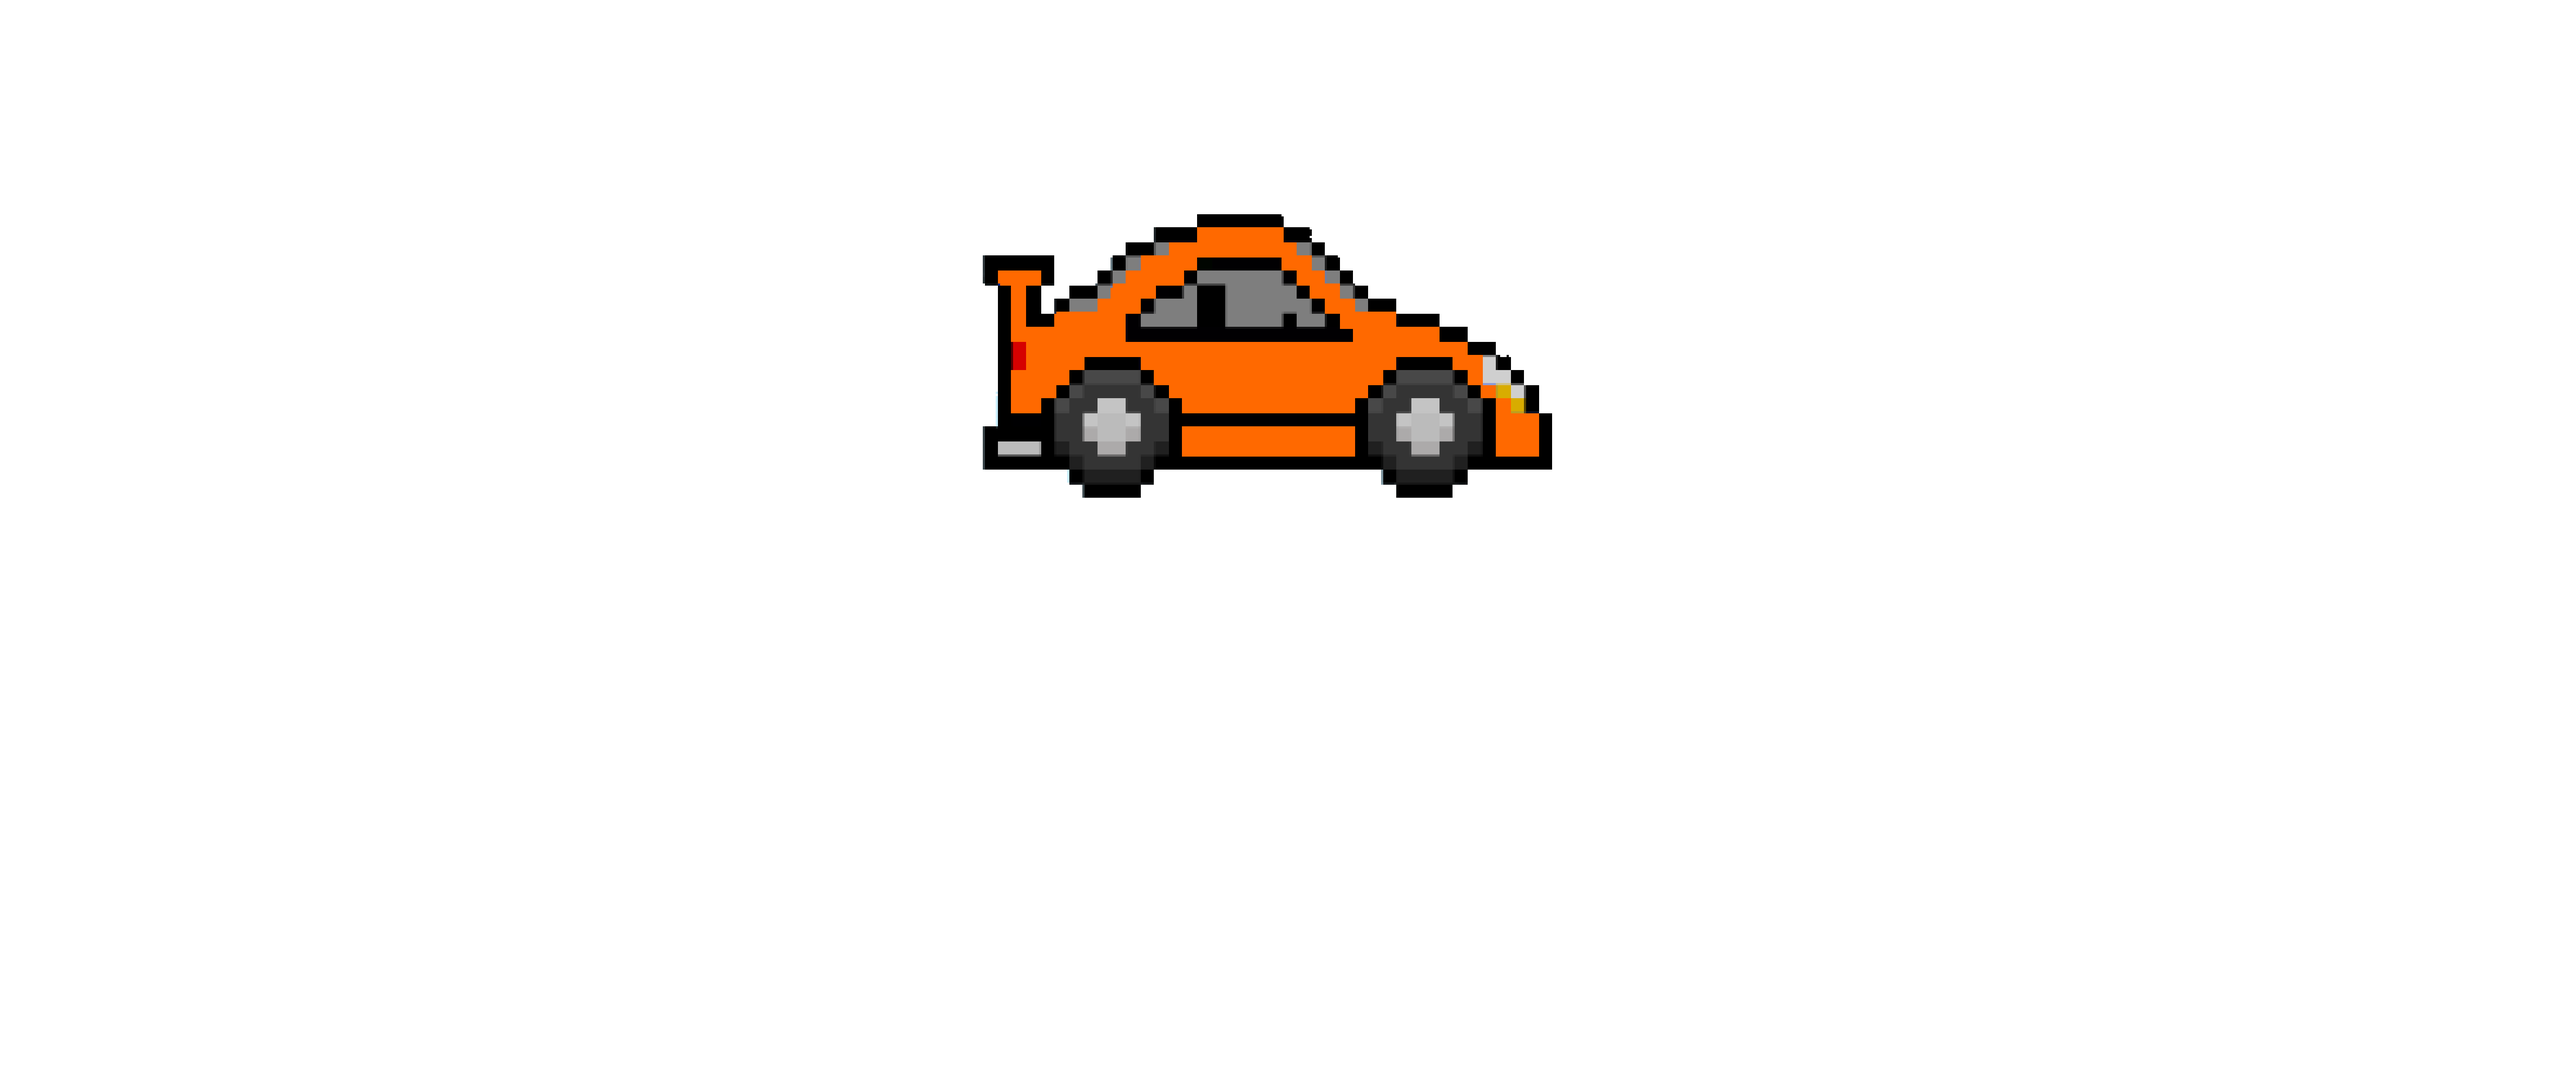
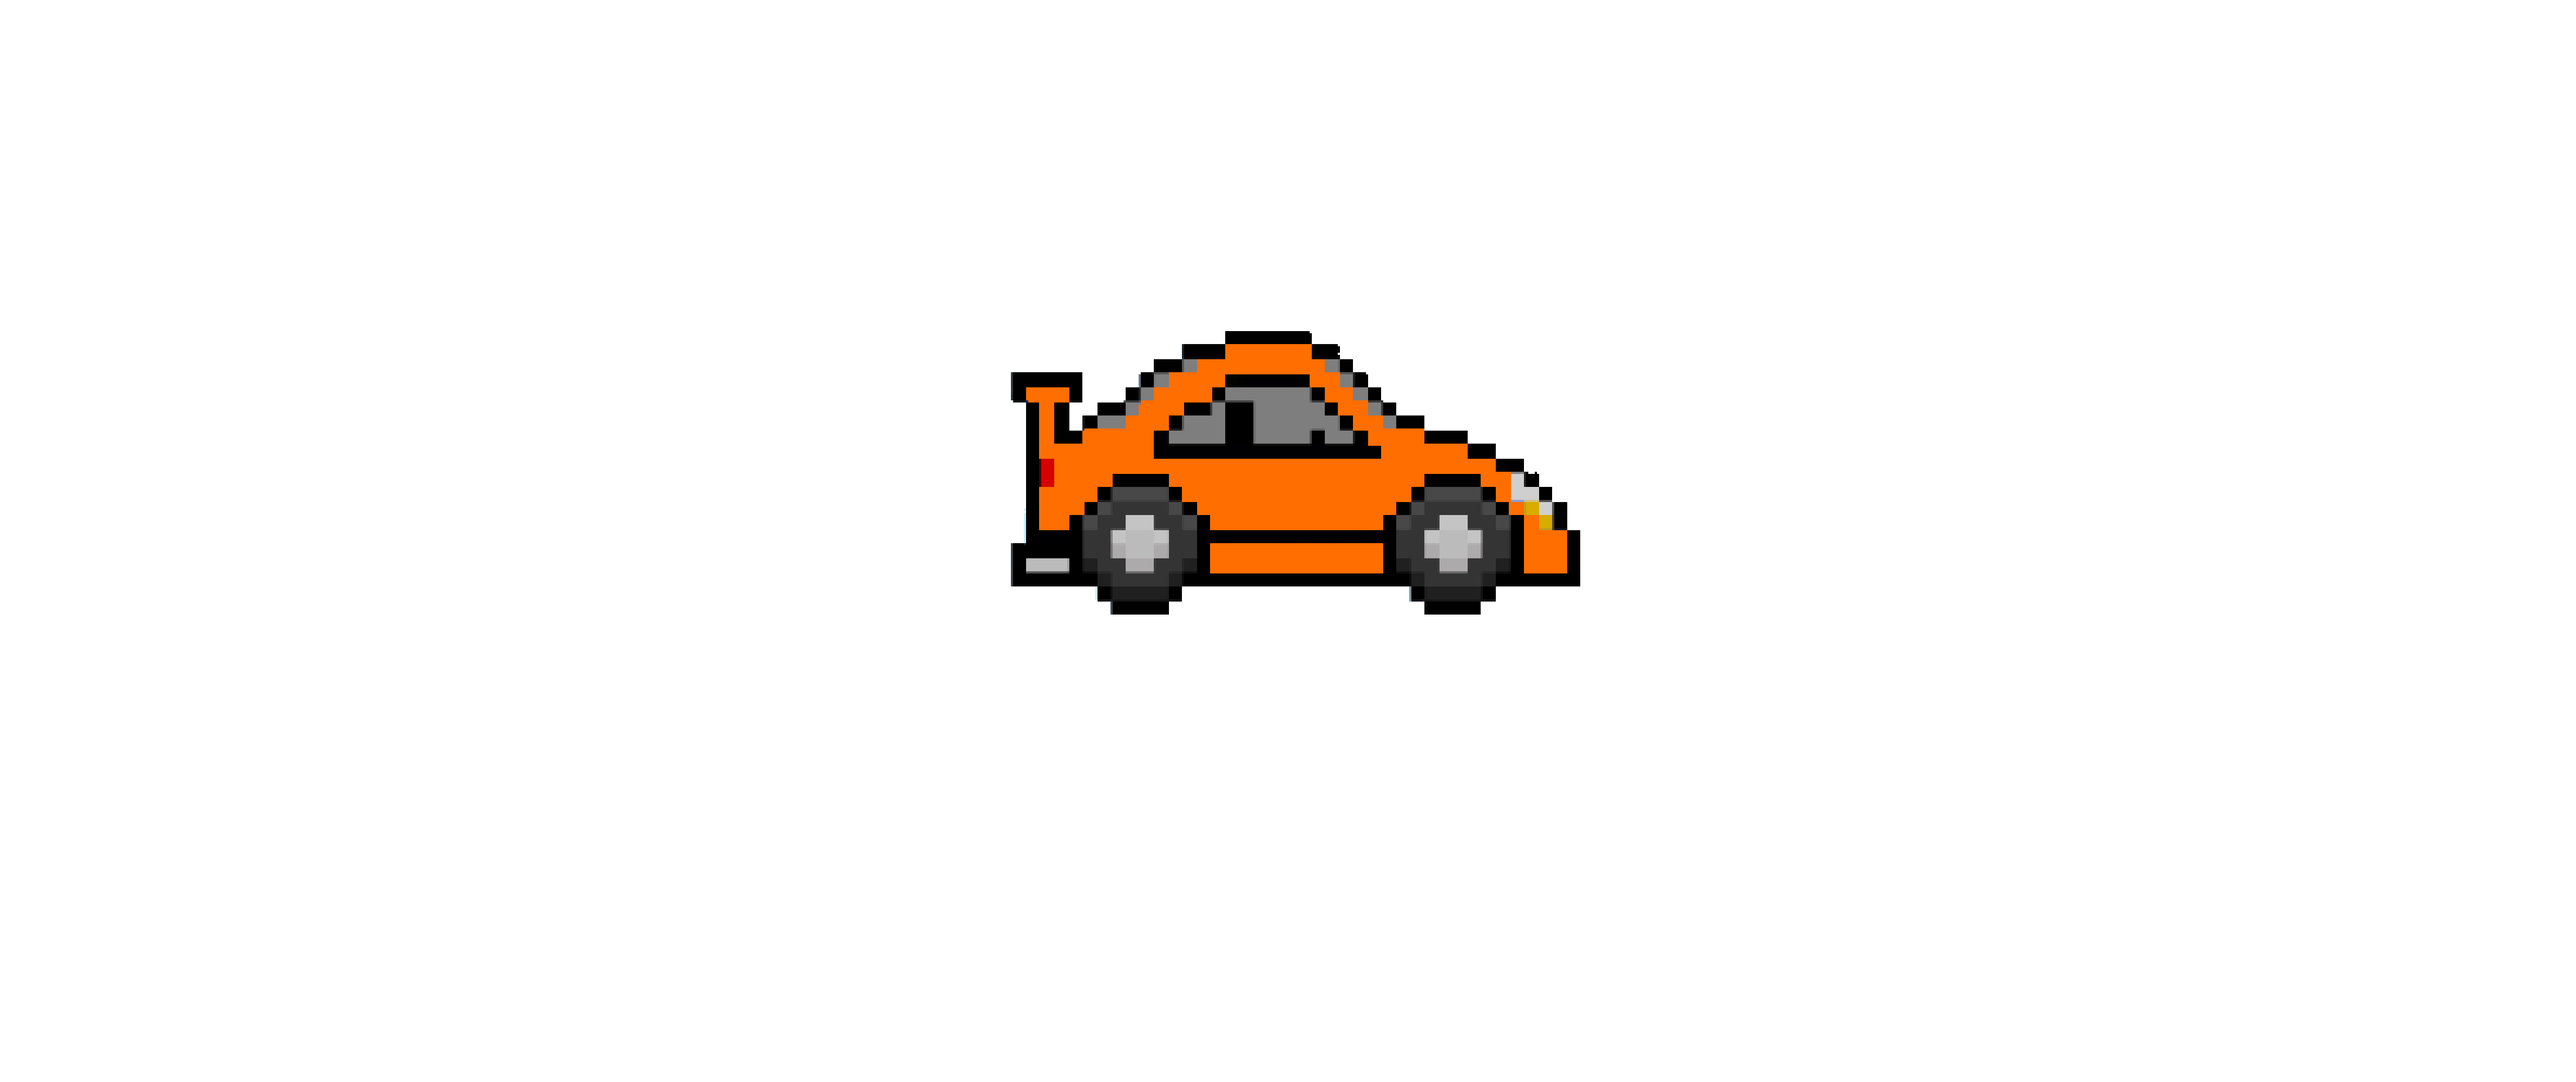
Push fix clock and multi finish

Changed region(s): [[0.3731, 0.1872, 0.6218, 0.5928]]

diff --git a/frontend/Finishscreen.css b/frontend/Finishscreen.css
@@ -103,7 +103,7 @@
 @keyframes flipCar {
     0% { content: url("../assets/Car5.png"); }
     25% { content: url("../assets/Car6.png"); }
-    50% { content: url("../assets/Car7.png"); }
+    50% { content: url("../assets/Car1.png"); }
     75% { content: url("../assets/Car8.png"); }
     100% { content: url("../assets/Car5.png"); }
 }
